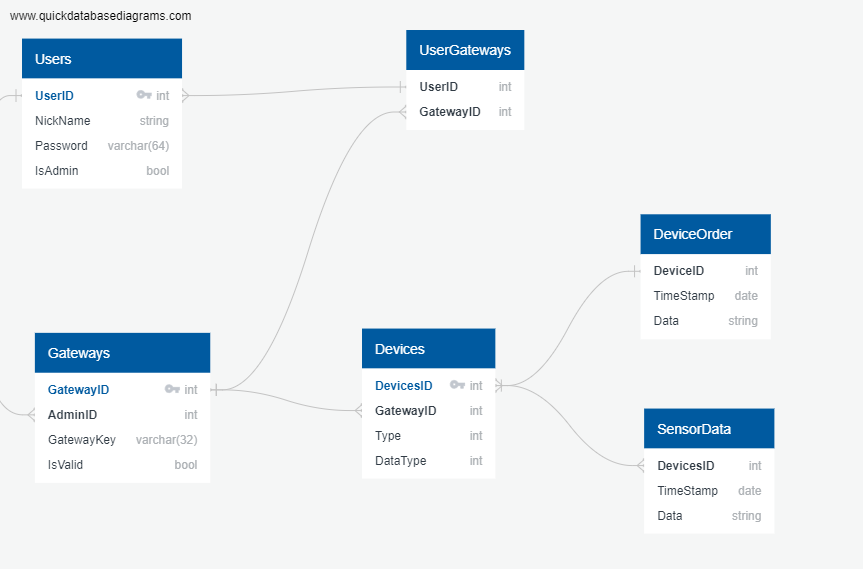
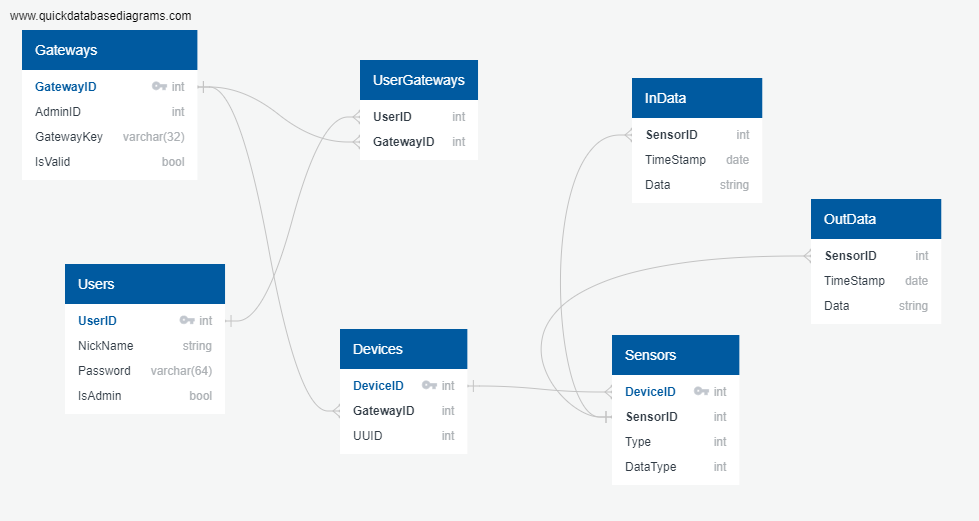
Updated database

diff --git a/server/db_files/create_db.py b/server/db_files/create_db.py
@@ -5,7 +5,7 @@ db = mysql.connect(
     host = "localhost",
     user = "username",
     password = "password",
-    database = "LSELdata"
+    database = "domotic"
 )
 
 # GRANT ALL PRIVILEGES ON *.* TO 'username'@'localhost' IDENTIFIED BY 'password'; being in sudo mysql
@@ -13,58 +13,15 @@ db = mysql.connect(
 print(db) 
 
 mycursor = db.cursor()
+mycursor.execute("CREATE TABLE IF NOT EXISTS `Users` ( \
+                `UserID` int  NOT NULL ,\
+                `NickName` TEXT NOT NULL ,\
+                `Password` varchar(64)  NOT NULL ,\
+                `IsAdmin` bool  NOT NULL ,\
+                PRIMARY KEY (\
+                    `UserID`\
+                )\
+            );")
 
-mycursor.execute("CREATE TABLE IF NOT EXISTS `UserGateways`(    \
-                  `UserID` int  NOT NULL ,        \
-                  `GatewayID` int  NOT NULL); ")
-
-mycursor.execute("CREATE TABLE IF NOT EXISTS `Users`(             \
-                  `UserID` int  NOT NULL ,           \
-                  `NickName` TEXT NOT NULL ,       \
-                  `Password` varchar(64)  NOT NULL , \
-                  `IsAdmin` bool  NOT NULL ,         \
-                  PRIMARY KEY (`UserID`));")
-
-mycursor.execute( "CREATE TABLE IF NOT EXISTS `Gateways` (         \
-                 `GatewayID` int  NOT NULL ,         \
-                 `AdminID` int  NOT NULL ,           \
-                 `GatewayKey` varchar(32)  NOT NULL ,\
-                 `IsValid` bool  NOT NULL ,          \
-                  PRIMARY KEY (GatewayID));")    
-
-mycursor.execute( "CREATE TABLE IF NOT EXISTS `Devices` (   \
-                  `DevicesID` int  NOT NULL , \
-                  `GatewayID` int  NOT NULL , \
-                  `Type` int  NOT NULL ,      \
-                  `DataType` int  NOT NULL ,  \
-                    PRIMARY KEY (             \
-                        `DevicesID` ));")
-
-
-mycursor.execute( "CREATE TABLE IF NOT EXISTS `SensorData` (   \
-                  `DevicesID` int  NOT NULL ,    \
-                  `TimeStamp` date  NOT NULL ,   \
-                  `Data` TEXT  NOT NULL);")
-
-mycursor.execute( "CREATE TABLE IF NOT EXISTS `DeviceOrder` (  \
-                  `DeviceID` int  NOT NULL ,     \
-                  `TimeStamp` date  NOT NULL ,   \
-                  `Data` TEXT  NOT NULL);")
-
-# mycursor.execute( "ALTER TABLE UserGateways ADD CONSTRAINT fk_Users_UserID FOREIGN KEY(UserID) \
-#                    REFERENCES Users (UserID);")
-
-# mycursor.execute( "ALTER TABLE `Gateways` ADD CONSTRAINT `fk_Gateways_AdminID` FOREIGN KEY(`AdminID`) \
-#                     REFERENCES `Users` (`UserID`);")
-
-# mycursor.execute( "ALTER TABLE `UserGateways` ADD CONSTRAINT `fk_UserGateways_GatewayID` FOREIGN KEY(`GatewayID`) \
-#                    REFERENCES `Gateways` (`GatewayID`);")
-
-# mycursor.execute( "ALTER TABLE `DeviceOrder` ADD CONSTRAINT `fk_Devices_DevicesID` FOREIGN KEY(`DeviceID`) \
-#                    REFERENCES `Devices` (`DevicesID`);")
-
-# mycursor.execute( "ALTER TABLE `Devices` ADD CONSTRAINT `fk_Devices_GatewayID` FOREIGN KEY(`GatewayID`) \
-#                    REFERENCES `Gateways` (`GatewayID`);")
-
-# mycursor.execute( "ALTER TABLE `SensorData` ADD CONSTRAINT `fk_SensorData_DevicesID` FOREIGN KEY(`DevicesID`) \
-#                    REFERENCES `Devices` (`DevicesID`);")
+f = open("database_create.txt", "r")
+mycursor.execute(f.read())
